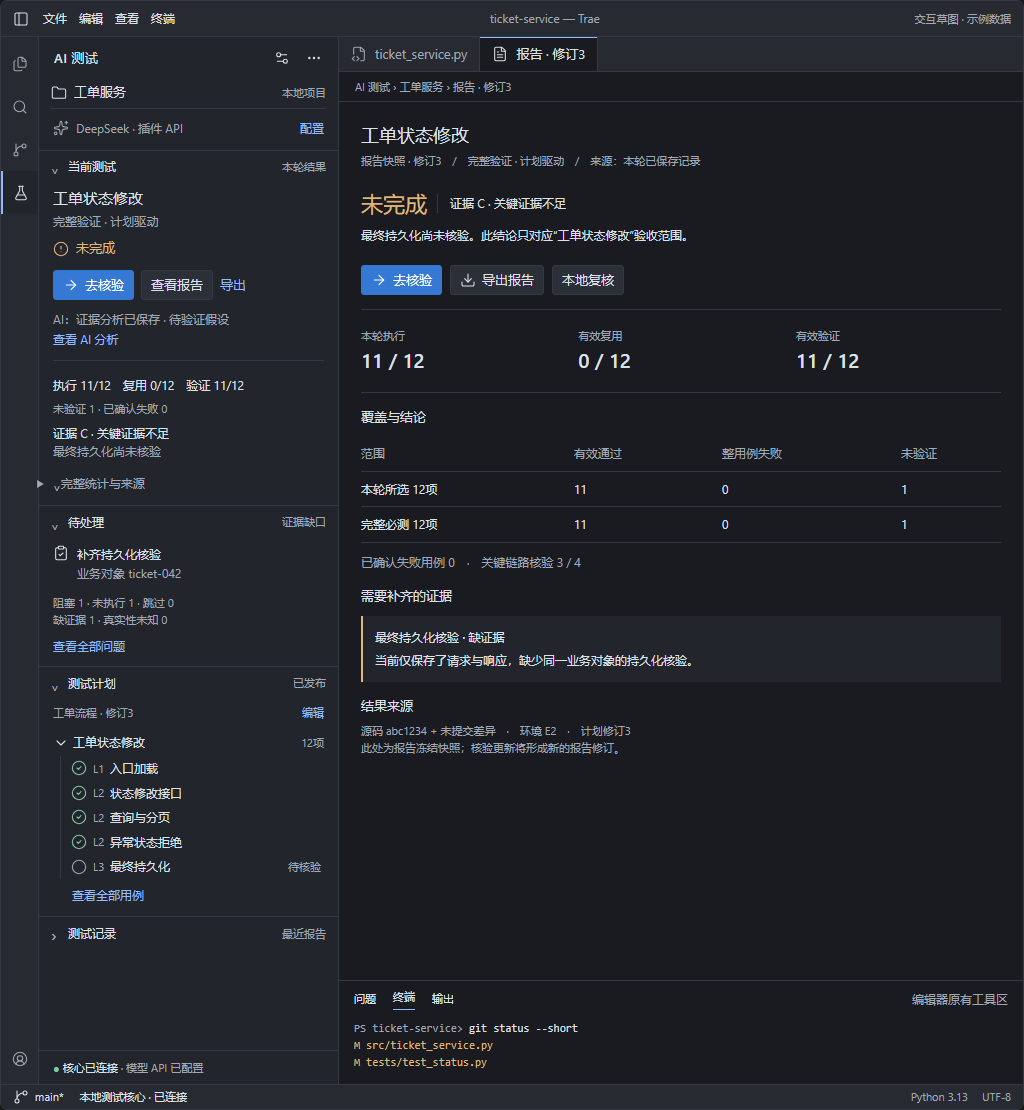
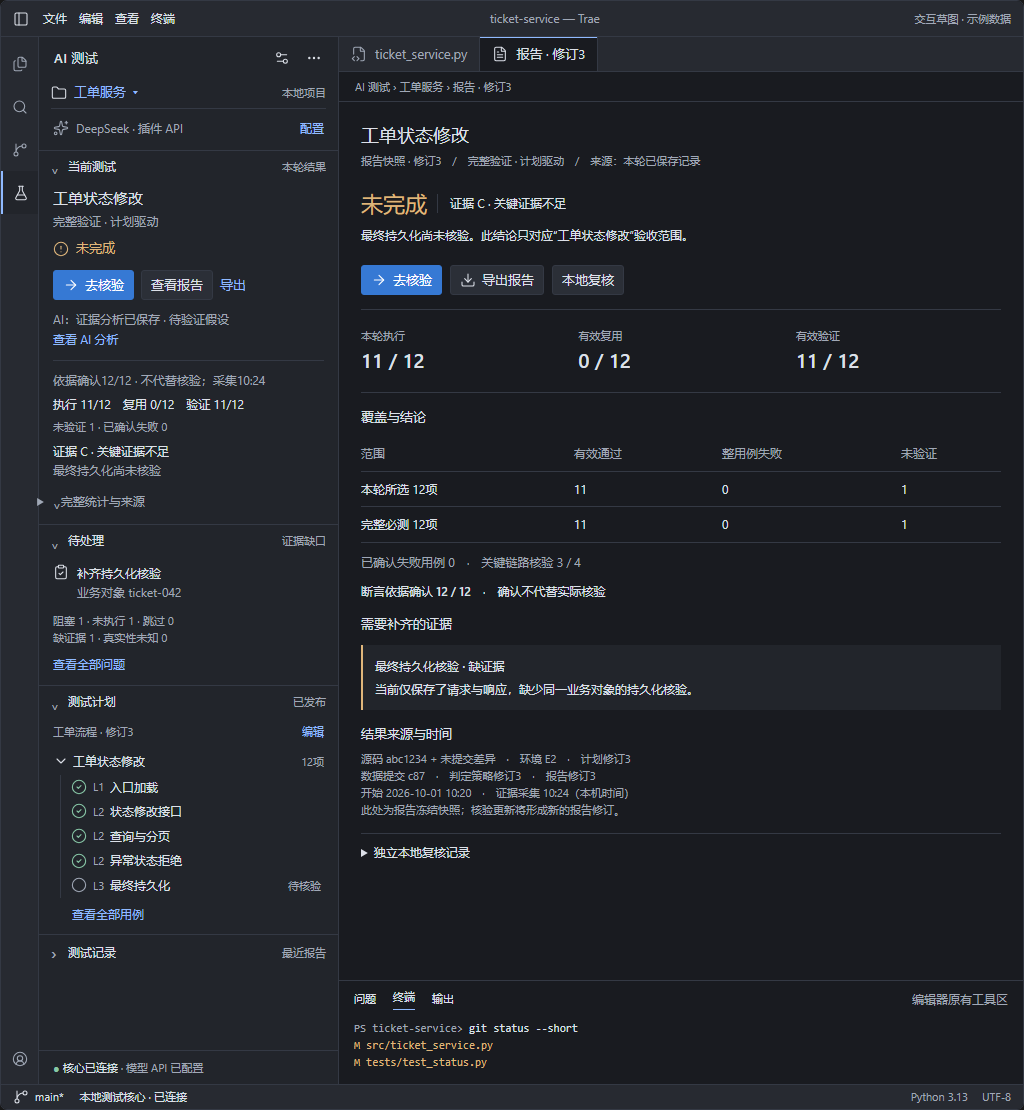
docs: align editor panel design with existing contracts

diff --git a/docs/项目文档/一期/设计文档/02-编辑器内面板交互设计草案.md b/docs/项目文档/一期/设计文档/02-编辑器内面板交互设计草案.md
@@ -1,6 +1,6 @@
 # 编辑器内 AI 辅助测试面板交互设计草案
 
-版本：0.2；日期：2026年10月1日。
+版本：0.3；日期：2026年10月1日。
 
 状态：界面讨论稿，尚未实现或在真实 Trae 中验证。
 
@@ -10,7 +10,7 @@
 
 **推荐方案：一个常驻 AI 测试面板，使用设置中配置的模型 API 准备测试与分析证据。面板回答“让 AI 测什么、现在怎样、下一步做什么”；详情承担计划确认、执行、证据核对和报告阅读。详情默认可在同一面板中切换，宿主支持时也可打开编辑器详情标签页。**
 
-本轮补充突出既有模型能力及宿主容器适配，不增加功能范围。配置与任务语义以[功能文档的 AI 模型接口](../功能文档/01-功能文档.md#ai-模型接口)和[项目与计划架构](../架构文档/01-项目与计划.md#9-复用回归与模型任务矩阵)为准。编辑器内建 AI 与 MCP 是可选接入方式；插件直接调用所配模型 API 的流程不依赖宿主聊天或标签页。
+本轮补充突出既有模型能力及宿主容器适配，不增加功能范围。配置与任务语义以[功能文档的 AI 模型接口](../功能文档/01-功能文档.md#ai-模型接口)和[项目与计划架构](../架构文档/01-项目与计划.md#9-复用回归与模型任务矩阵)为准。用户可选择是否使用编辑器内建 AI 或 MCP；一期交付仍包含面板、CLI 与 stdio MCP，后两者复用同一核心。插件直接调用所配模型 API 的流程不依赖宿主聊天或标签页。
 
 ## 1 使用场景与设计目标
 
@@ -79,7 +79,7 @@
 
 ### 2.3 界面参考图
 
-以下四张图来自本稿对应的交互草图，均为示例数据，不是真实宿主安装或测试执行截图。图片随文档保存在同目录的“界面图”文件夹中。
+以下十张图来自本稿对应的交互草图，均为示例数据，不是真实宿主安装或测试执行截图。图片随文档保存在同目录的“界面图”文件夹中。图中示例只用于核对布局；产品统计和状态必须由同一核心 DTO 或合同夹具提供。
 
 **图1：无标签页 · 模型 API 设置。** 源码保留在原编辑区，设置在停靠面板内打开；提供供应方、API 地址、模型、密钥引用、超时和连接检查，并可返回本次测试。对应第2、8节。
 
@@ -96,6 +96,30 @@
 **图4：结果与报告。** 分别展示业务结论、证据等级、执行/复用/验证统计及未完成原因；报告保持具体修订的快照身份。对应第4.3、7节。
 
 ![结果与报告界面，显示未完成结论、C 级证据、覆盖统计及持久化核验缺口](界面图/editor-test-panel-result.png)
+
+**图5：环境与来源准备。** 核对依赖环境、业务数据隔离与复位、目标部署身份；明确不隔离与未保存内容的选择。对应第4.1.1节。
+
+![准备详情中的环境、数据、部署及未保存内容核对](界面图/editor-test-panel-environment.png)
+
+**图6：运行驱动与修订。** 在步骤边界收窄到逐步驱动；查看基础计划、运行中修订及过期依据，反向切换需新建运行。对应第4.2.1节。
+
+![运行控制详情中的驱动收窄、修订记录与依据过期处理](界面图/editor-test-panel-driver.png)
+
+**图7：问题草稿与人工确认。** 从证据创建统一问题记录，核对事实、假设、严重程度和本地责任人。对应第7.3节。
+
+![问题草稿详情中的事实、证据、级别及责任人确认](界面图/editor-test-panel-issue.png)
+
+**图8：变更影响与回归建议。** 依据已登记映射列出受影响用例，保留缺映射警告及人工增减理由。对应第5.2节。
+
+![变更回归详情中的来源、受影响用例、映射缺口与范围确认](界面图/editor-test-panel-regression.png)
+
+**图9：报告查询与项目显示。** 项目、业务结果及完整编号精确查询；修订独立展开，隐藏项目只改变展示偏好。对应第3.4、7.1节。
+
+![报告列表的项目和业务结果筛选、完整编号查询及隐藏项目恢复](界面图/editor-test-panel-records.png)
+
+**图10：AI 生成来源。** 分别展示复用、部分材料和来源过期；迟到响应仍归原输入。对应第5.3节。
+
+![AI 生成记录中的复用来源、部分材料缺口和过期响应](界面图/editor-test-panel-ai-records.png)
 
 ## 3 侧栏结构：一个入口，四个分组
 
@@ -126,6 +150,7 @@ AI 测试                                设置  更多
   ──────────────────────────────────
   执行 11/12 · 复用 0/12 · 验证 11/12
   未验证 1 · 已确认失败 0
+  依据确认 12/12；确认不代替核验
   证据 C · 关键证据不足
   ▸ 完整统计与来源
 
@@ -178,6 +203,12 @@ AI 测试                                设置  更多
 
 运行时仅对核心允许的尚未执行步骤开放修订。正在执行的步骤只读，拒绝理由就地显示。树中查看旧结果必须标为历史，不能把旧通过作为当前状态。
 
+### 3.4 项目选择、隐藏与恢复
+
+项目选择器可进入“管理项目显示”，列出可见项目与“已隐藏项目”。隐藏和恢复分别调用核心既有 ProjectViewPreference 用例；隐藏不删除项目、目录绑定或历史引用，不停止其运行。隐藏当前项目时明确显示其活动运行提示，保留原运行的查询路径，不静默切到另一个项目或取消执行；用户再明确选择其他项目。恢复只恢复列表可见性，不启动测试。取消目录选择或重新绑定不提交修改，冻结运行仍引用原绑定。
+
+多目录切换后，准备、报告、问题和模型记录均按准确项目重新查询；不沿用另一项目的筛选游标或授权。项目选择只改导航，不能把当前源码标签页当作已确认的绑定变更。对应 P1-AC25/30/34 及[报告查询与目录绑定](../功能文档/01-功能文档.md#16-报告查询与目录绑定)。
+
 ## 4 当前测试的三个阶段
 
 三个阶段占用同一位置，由核心已提交状态切换，保持用户对信息位置的记忆。
@@ -205,6 +236,21 @@ AI 测试                                设置  更多
 plain 目录以文件清单摘要替代源码行中的 Git 内容，整块省略仓库、分支、提交与远端字段。最近快照不等于当前编辑器/磁盘内容。打开面板不扫描源码；分析选定内容和运行准备均由明确动作发起。
 
 计划未发布时主动作改为“完善并发布计划”；必需输入缺失时说明具体字段并提供详情入口。未配置模型不阻止人工计划，无关的数据库、平台账号和远端连接不要求填入。
+
+### 4.1.1 准备详情中的环境与执行来源
+
+“查看准备详情”进入同面板详情，按当前动作显示以下事实与配置入口；当前测试信息区仍只读。
+
+| 内容 | 显示与操作 |
+| --- | --- |
+| 依赖环境 | 默认 venv；列实际解释器/版本、依赖集合来源及已支持方式。显式选择不隔离须确认并冻结到本次运行，显示“不隔离”；不能把该选择当缺配置或自动降等级 |
+| 业务数据 | 独立列数据来源、隔离方式、复位方式及本次业务对象；venv 不证明业务数据隔离。污染或缺复位事实按核心返回原因阻塞/标缺口 |
+| 被测目标 | 列实际入口/参数、安全目标、服务身份和部署版本核对状态；HTTP/L3 目标与本地源码对应性待核实时如实显示，不以源码副本建立成功证明一致 |
+| 凭据用途 | 模型、被测 HTTP、独立核验及可选 GitHub 分别选择引用；只要求实际动作需要的用途，无可用凭据后端时明确不可用 |
+| 未保存内容 | 发现宿主有未保存内容时，提供“由用户保存后重新准备”或“明确使用磁盘版本”的受控选择，决定入核心记录；不能自动保存或宣称缓冲区已测试。宿主无法提供该事实时说明使用磁盘来源及核实限制 |
+| 来源核对 | 展示实际入口、解释器、加载来源与固定源码的核对状态；启动前不符给重新准备入口，启动后来源不明保留执行事实并列缺口，不提供已核实绿灯 |
+
+保存环境配置不启动执行。prepare 后、start 前源码或必要输入变化时，展示变化原因并要求重新准备，旧意图不能执行新输入。正式提测/full 的交付、必测和关键链路门禁仍完整核对；quick/按需按所选能力校验。主责语义引用[项目、绑定和环境](../架构文档/01-项目与计划.md#1-项目绑定和环境)、[快照和物化](../架构文档/01-项目与计划.md#2-快照和物化)与[执行来源](../架构文档/01-项目与计划.md#12-执行来源与物化边界)，对应 P1-AC13/20/21/26/30/31。
 
 ### 4.2 执行阶段
 
@@ -235,6 +281,14 @@ plain 目录以文件清单摘要替代源码行中的 Git 内容，整块省略
 
 进入工作台后侧栏仍显示整体运行状态。事件更新不自动切走用户正在查看的历史、证据或问题。
 
+### 4.2.1 驱动收窄与运行中修订
+
+运行详情动作区提供“改为逐步驱动”，只在有效驱动为计划驱动且核心允许时出现。用户填写原因并确认后由 narrow_driver 用例在步骤边界生效；请求登记但尚未到边界时显示等待，不能提前标已切换。详情同时列初始驱动、有效驱动、变更原因和生效边界。有效驱动已是逐步时，反向放宽被拒绝，给出“重新准备并新建运行”入口，不恢复初始授权。
+
+“修订未执行步骤”先列允许修改对象，再显示差异、原因和生效边界。保存调用 revise_pending_steps 并核对预期修订；正在执行或已完成步骤不可回改。full 不提供删除适用必测、弱化断言或改变适用性规避门禁的入口；拒绝时显示具体对象与原因。详情分别列基础计划修订和运行中修订序列，每步保留实际执行修订，历史可读。
+
+需求、验收项或相关依据变更导致已有依据失效时，核心暂停受影响运行，界面列过期对象、原来源、原因及需重跑用例；旧断言仅作历史。用户查看变化、核实活动执行、重新准备或按允许路径继续；新输入及副作用尝试重新核对授权。不自动重跑，不把修改和收窄当成新的测试通过。对应 P1-AC19/20/31，行为以[运行控制](../功能文档/01-功能文档.md#4-状态修订与幂等)和[意图与运行修订](../架构文档/01-项目与计划.md#4-意图与运行修订)为准。
+
 ### 4.3 结果阶段
 
 展示顺序固定为范围及业务结果 → 下一步动作 → 执行/复用/有效验证 → 证据等级与缺口 → 来源详情。
@@ -246,6 +300,12 @@ plain 目录以文件清单摘要替代源码行中的 Git 内容，整块省略
 - 重跑生成新意图与新运行，旧结果保留。新尝试不得回退旧复用绿灯。
 
 “完整统计与来源”展开后分别显示本轮所选与完整必测两个摘要：执行、复用、有效验证、有效通过、整用例已验证失败、未验证及已确认失败用例；读取 CoverageDTO，不从步骤数推算。已确认失败与整用例失败可能重叠，不相加。零分母显示“不适用/无适用项”，缺字段显示“未知”。
+
+结果区独立显示“断言依据确认：已确认／参与本轮判定用例数”，与执行和有效验证计数并列，不能将确认数当已验证数。读取核心 effective_assertion_basis_state 及明确分母，不直接汇总冻结 Case 的保存时状态；缺字段为未知、空分母为无适用项。点“核对依据”在独立动作区打开准确用例/依据修订，补确认后仍由核心复核实际材料并产生新判定及报告修订，旧报告不变。
+
+三段信息中的本机开始、结束或采集时间只放运行后区；未取得的时间显示原因，不补造结束时间。工作台、证据与独立复核详情可显示各自记录时间。结果来源详情可核对核心数据提交 source_commit、判定策略 policy_version、基础/运行中计划修订与准确报告修订；核心数据提交与源码身份分别标明，plain 仍不出现 Git 字段。这些追溯信息不挤占主结论。时间不用于排序或判断最新。
+
+“当前测试”显示当前运行时，另保留相同结论键下完整验证的状态：新 full 开始即显示重新验证，取消/未知不回退旧通过；quick/按需显示补充结果，不覆盖完整验证结论。无对应完整验证时如实显示尚无完整验证。业务来源与时间字段引用[报告和当前结论](../架构文档/03-报告与缺陷.md#2-报告和当前结论)及[有效失败与确认呈现](../架构文档/06-面板与工作台.md#7-有效失败与确认字段呈现)，对应 P1-AC18/21/27/29。
 
 必须用以下反例核对布局与文案，具体判定仍由[一期功能第3、14、15节](../功能文档/01-功能文档.md)负责：
 
@@ -277,6 +337,32 @@ plain 目录以文件清单摘要替代源码行中的 Git 内容，整块省略
 准备运行时先展示核心冻结的动作摘要，再逐项授权。界面列出实际目标、已解析输入、影响、凭据用途和相关修订；未知变量标待解析。每项确认由受控用户交互提交，不设“一次永久信任全部”。尚无 Run 时确认绑定准备意图及计划步骤，不伪造运行编号。
 
 副作用确认使用足够宽的编辑器内确认视图或宿主受控交互，不把关键目标截断在窄侧栏。返回只保留准备内容，不授权或执行。
+
+### 5.1 项目上下文与交付详情
+
+准备材料中的“项目上下文”“任务与验收”“交付说明”分别打开结构化详情，保留所据版本与来源。交付表列任务/验收项、完成/未完成、变更模块、接口变化、可识别版本、运行方法、数据/依赖/Mock、已知问题和自测证据；提供“保存草稿”和用户“确认提测”，不以保存或 AI 生成替代确认。缺必填字段就地定位，正式提测不能进入可验收状态。开发自述、实际已验证和未验证范围分别显示；quick/按需不强制填满正式交付表。对应 P1-AC01/17/30，沿用[标准交付说明](../功能文档/01-功能文档.md#102-p1-fr02-标准交付说明)。
+
+### 5.2 变更影响与回归范围
+
+从准备详情、项目详情或计划动作区进入“查看变更与回归建议”，与问题修复复测共用回归用例，但分别说明触发来源。先列需求/源码/接口/规则变化的准确修订，再按已登记模块及用例关联展示受影响用例、变更原因和推导来源。单模块保留本模块回归，仅跨模块传播不适用；缺映射显示“推导结果，可能不完整”，不显示无影响。
+
+用户可新增或排除建议项，必须填写相应理由；full 适用必测保持锁定，不能借排除隐去失败。首次或映射不足的快速检查显示核心确定的已发布保守集合，无法确定时等待用户确认范围；quick 不增加任意勾选入口。确认范围保存修订后再准备新意图，查看或确认建议不自动执行，也不改变旧报告。对应 P1-AC03/12/20/23，匹配与传播唯一遵守[变更回归功能](../功能文档/01-功能文档.md#103-p1-fr03-变更影响与回归建议)及[模型与回归矩阵](../架构文档/01-项目与计划.md#9-复用回归与模型任务矩阵)。
+
+### 5.3 AI 任务、生成记录与来源状态
+
+准备详情中的 AI 任务入口包括项目摘要、检查内容、验收项建议、交付说明草稿、用例建议；工作台/报告可分析指定证据。所有任务经同一应用用例；用户选择目标材料和所需任务，生成结果进入对应草稿或假设区域。
+
+生成记录详情列任务、实际输入编号/修订、分析快照、策略/模板/模型配置修订、请求关联、可得的供应方请求号、返回模型、安全响应或错误、排除材料与原因。以下文字是既有生成状态/缺口的呈现，不新增业务枚举：
+
+| 核心事实 | 呈现与下一步 |
+| --- | --- |
+| 实际依赖未变、可复用 | 显示“复用已保存生成结果”、原来源及本次未新调用；用户先核对已有内容，不能只为刷新页面重复发请求 |
+| 输入限制、未授权或安全投影排除部分材料 | 醒目显示“基于部分材料”，列未纳入范围及分析缺口；不能声称已分析全部源码/日志 |
+| 来源修订变化 | 显示“来源已过期”及变化对象，核对或仅重新生成受影响草稿；人工修订保留，旧结果不覆盖新内容 |
+| 原来源的迟到响应 | 保留原请求/来源并标过期，不写入当前来源的分析或结论；用户可查看原记录 |
+| 超时、认证、限流、截断或结构错误 | 显示准确错误及已保存安全材料；换配置由用户明确选择，不暗换供应方；未知请求按核心恢复规则核实 |
+
+出站前再次核对当前开关和项目策略；缩小范围立即生效，已发出的请求不能宣称已撤回。源码片段关闭作用于全部字段投影。生成成功、复用或用户确认分析均不替代独立核验。对应 P1-AC10/15/17/30/32，主责为[复用与读取边界](../需求文档/01-需求文档.md#26-复用与读取边界)及[AI 调用边界](../架构文档/01-项目与计划.md#ai-调用边界)。
 
 ## 6 测试工作台与证据详情
 
@@ -321,13 +407,28 @@ plain 目录以文件清单摘要替代源码行中的 Git 内容，整块省略
 
 一期不新增按源码版本分组历史功能，不展示跨项目 KPI、通过率看板或可删除历史。报告列表使用现有 reports.latest；完整运行/报告编号精确查找使用 reports.by_id；修订展开使用 reports.revisions。有限查询、分页和索引语义引用[存储合同](../架构文档/04-存储与恢复.md)。
 
+完整报告列表顶部提供以下控件；窄面板纵向排列，功能不删减：
+
+| 控件/动作 | 查询与反馈 |
+| --- | --- |
+| 项目 | 从现有稳定项目选择一个，默认当前项目；切换后重新查询，不提供未定义的跨项目混合列表 |
+| 业务结果 | “全部业务结果”及通过/失败/未完成/不适用；提交 business_outcome，执行状态和材料可用性另列，不混成状态筛选 |
+| 编号类型与输入 | 明确选择运行编号或报告编号，提示“输入完整运行/报告编号”；精确匹配 reports.by_id，可附当前业务结果条件，不暗示模糊搜索 |
+| 清除编号/查询 | 清除编号后回到 reports.latest；查询失败保留条件，未匹配、索引待恢复、核心断连分开显示 |
+| 展开修订 | 调用 reports.revisions，列每个历史修订自身结果、判定策略和来源；不继承列表业务结果筛选 |
+| 下一页/刷新 | 使用核心返回游标，翻页保持同一 commit；用户刷新、项目/结果/编号条件变化时重置游标重新查询，不筛已加载页 |
+
+默认按核心固定排序显示最新摘要；列表不加载全部附件。项目隐藏/恢复入口见第3.4节。QuerySpec 字段和索引唯一遵循[固定查询目录](../架构文档/04-存储与恢复.md#页面控件与queryspec固定目录)，对应 P1-AC34。
+
 ### 7.2 报告阅读
 
 标题“报告 · 范围名称 · 修订3”，固定标识“报告快照”。先显示结论、范围、来源，再显示分层统计、缺口、真实性/Mock、问题与证据索引。
 
 用户正在看旧修订时出现“有新修订可查看”，不自动替换正文。实时运行值与报告快照不同，分别标明来源；证据缺失也保留报告原文，并明确当前可用性缺口。
 
-本地复核在独立区域填写复核人、决定、说明和所依据修订，不改报告正文或业务事实。导出先选择 Markdown 摘要或可携带证据包，再查看附件包含/排除/缺失及安全说明；只有安全投影、校验和可靠登记成功才提示完成。
+报告正文同样显示独立的断言依据确认数与必要追溯时间，读取该报告冻结的输入集合；补确认不使旧版字节或旧时间变化。本地复核在独立区域填写复核人、决定、说明和所依据修订，由核心记录本机时间并列出全部复核记录；保存前明确所依据报告，复核不改报告正文或业务事实。新报告的复核不自动沿用到另一修订，导出显示本次冻结的复核集合。
+
+导出先选择 Markdown 摘要或可携带证据包，再查看附件包含/排除/缺失及安全说明；只有安全投影、校验和可靠登记成功才提示完成。摘要明确附件不随附；证据包按既有合同含 report.md、manifest.json 和安全附件，预览相对路径、实际投影字节摘要及缺口，在新目录仍可阅读。越界路径、整体投影或校验失败时不给成功产物，原报告保持原修订。细则引用[本地复核与导出](../架构文档/03-报告与缺陷.md#3-本地复核与导出)、[可携带导出](../架构文档/03-报告与缺陷.md#5-范围环境和可携带导出)，对应 P1-AC21/28/29/35。
 
 ### 7.3 问题处理
 
@@ -337,6 +438,8 @@ plain 目录以文件清单摘要替代源码行中的 Git 内容，整块省略
 
 问题详情将事实与假设、预期与实际、证据与修复建议分开。动作包括：
 
+- **创建/编辑问题草稿**：从失败步骤、证据详情或人工记录进入，自动引用准确项目、用例/步骤/尝试、源码和环境；补标题、类型、影响范围、验收项/模块/层级、复现前置与顺序、预期/实际/频率、证据、事实/假设、建议级别和本地责任人。未知定位保留原因；缺证据是信息缺口，不直接确认产品缺陷。模型失败时仍能人工创建/提交；AI 草稿与问题共用 issue_id。
+- **提交待确认/人工核对事实**：提交草稿不隐含人工确认。受控用户核对准确事实修订、证据、级别和本地责任人后保存现有确认记录，再按允许状态进入处理；确认按钮不修改原断言。事实字段或关联证据变化使当前事实核对重新待核对，旧确认保留；仅责任人/进度变化按核心投影处理。人工事实核对、报告复核、处理进度、处置及阻塞分别呈现。
 - **复制修复说明**：输出脱敏来源、预期/实际、事实/假设、证据、位置或未知原因及复测入口，供用户自行交给编辑器 AI 或开发者。
 - **登记修复并复测**：绑定修复版本，新实际回归满足关闭标准后才能修复关闭。
 - **核实为非缺陷**：保存依据、理由与人工确认；不把原失败断言改为通过。
@@ -344,6 +447,8 @@ plain 目录以文件清单摘要替代源码行中的 Git 内容，整块省略
 - **暂缓**：保存理由，明确未解决阻塞仍在。
 
 一期不依赖宿主聊天发送 API。“复制修复说明”不会自动发送消息、修改代码或关闭问题。
+
+问题详情同时展示草稿→待确认→已确认→处理中→待复测→已关闭的允许流转；复测失败回处理中，沿原 issue_id 保存全部修复与回归。核实非缺陷、重复与暂缓使用独立处置，不伪装修复关闭。已确认有效 P0/P1 的关联阻塞由核心派生；AI 候选级别仍是待核实风险。受控确认和 expected_revision 冲突就地说明，AI/MCP 不可自报用户已确认。对应 P1-AC08/10/11/14/15/33，状态及核对字段以[缺陷处理](../功能文档/01-功能文档.md#121-缺陷处理与交接格式)和[问题复核语义](../架构文档/03-报告与缺陷.md#14-问题查询投影与复核语义)为准。
 
 ## 8 首次使用与设置
 
@@ -363,9 +468,9 @@ plain 目录以文件清单摘要替代源码行中的 Git 内容，整块省略
 | --- | --- |
 | 模型 API | 默认 DeepSeek；配置供应方/接收地址、模型、密钥引用和超时；保存配置、检查连接；显示当前配置修订及实际检查状态 |
 | 项目与目录 | 绑定目录、实际入口、模块与依赖、任务交付及重新绑定入口 |
-| 测试准备 | 默认档位/驱动、已支持依赖方式、目标/数据/复位及凭据引用 |
+| 测试准备 | 默认档位/驱动、默认venv及显式不隔离选择、实际入口/解释器、目标部署身份、业务数据来源/隔离/复位及分用途凭据引用；保存不等于本次运行已冻结 |
 | 模板与规则 | 查看、编辑、导入导出及发布修订；不把配置保存等同规则发布 |
-| 模型出站材料 | 模型启用、允许材料类别、所据策略修订及确认记录；源码片段默认关；首次出站及目标/范围扩大时确认 |
+| 模型出站材料 | 模型启用、允许材料类别、所据策略修订及确认记录、排除范围及部分材料缺口；源码片段默认关；首次出站及目标/范围扩大时确认 |
 | 本地数据 | 永久保存位置、空间组成、缺口、备份与迁移入口 |
 
 仅根据所选动作展示必需字段；未知保持未知，可靠自动填入值标明来源。模型首次出站、目标或材料范围改变按合同确认；关闭模型后不再发送新请求，人工、规则、证据与报告流程保持可用。
@@ -447,14 +552,14 @@ plain 目录以文件清单摘要替代源码行中的 Git 内容，整块省略
 
 | 功能 | 新界面入口 | 主要相关验收 |
 | --- | --- | --- |
-| P1-FR01—03 项目、交付、变更回归 | 项目选择、项目详情/设置、计划准备、问题回归 | P1-AC01/03/12/25/30 |
+| P1-FR01—03 项目、交付、变更回归 | 项目选择及显示管理、上下文/交付详情、变更与回归建议、计划准备 | P1-AC01/03/12/20/23/25/30/34 |
 | P1-FR04—06 模板、规则、计划用例 | 测试计划树、计划编辑、规则详情、依据确认 | P1-AC17/20/21/24/30/31/32 |
-| P1-FR07 档位与驱动 | 当前测试动作区、准备详情、按需选择 | P1-AC18/23/26/31 |
+| P1-FR07 档位与驱动 | 当前测试动作区、环境/来源准备、按需选择、运行驱动收窄与修订历史 | P1-AC13/18/19/20/21/23/26/31 |
 | P1-FR08 可运行检查 | 当前测试、计划树、工作台与安全输出 | P1-AC04/13/25 |
 | P1-FR09 工作台 | 待处理、步骤详情、暂停/核实/重试/补证 | P1-AC09/10/15/19/20/33/34 |
 | P1-FR10—13 模块、接口、真实性、业务场景 | 用例/步骤详情、证据、独立核验、人工/导入表单 | P1-AC02/04/05/06/07/08/09/24 |
-| P1-FR14 报告导出 | 当前测试结果动作、测试记录、报告/复核/导出详情 | P1-AC16/21/22/27/29/34/35 |
-| P1-FR15 缺陷回归 | 待处理问题入口、全项目问题清单、问题详情 | P1-AC08/10/11/14/15/33 |
+| P1-FR14 报告导出 | 当前测试结果及依据确认/时间、项目/结果/完整编号查询、报告修订/独立复核/导出详情 | P1-AC16/18/21/22/27/28/29/34/35 |
+| P1-FR15 缺陷回归 | 证据/人工记录创建草稿、全项目问题清单、问题事实/级别/责任人确认、修复处置与回归 | P1-AC08/10/11/14/15/33 |
 | P1-FR16 永久留存 | 报告修订、尝试历史、本地数据及备份/迁移 | P1-AC28/34/35 |
 | P1-FR17 面板 | 常驻侧栏、三段摘要、动作区、所有详情的返回路径 | P1-AC26/27/30/32/33/34 |
 
@@ -473,7 +578,27 @@ plain 目录以文件清单摘要替代源码行中的 Git 内容，整块省略
 7. 报告旧/新修订、独立复核、摘要/证据包、附件缺失。
 8. plain、多目录切换、断连重建、索引恢复、字体缩放与键盘操作。
 9. 无详情标签页时，在同面板完成计划、授权、人工补证、报告与设置；返回后恢复选择，不中断核心执行。
+10. 默认venv与显式不隔离、业务数据污染、部署来源未知、未保存内容和prepare/start间变化；分别显示事实、选择及阻塞。
+11. 运行驱动收窄、反向切换拒绝、运行修订原因与序列、需求变化后的暂停/过期/需重跑范围。
+12. 从人工/AI草稿创建问题，核对当前事实、级别与责任人；事实变化使核对过期，报告复核不替代该事实。
+13. 项目/业务结果/完整编号查询、展开不同结果的历史修订、同commit翻页、隐藏/恢复活动项目。
+14. 变更映射不足的保守quick、人工增减回归理由；AI复用、部分材料、来源过期和迟到响应。
 
 这些是既有 AC 的界面评审路径，不新增验收编号。完成原型只能证明布局与合同夹具表现；真实 Trae 安装、停靠能力、宿主生命周期、执行恢复和导出须按需求登记实际输入、版本、结果与证据。
 
 本轮交付状态：已完成交互设计草案；文档链接、表格和编号等静态核对结果见[修改记录](../../../修改日志/2026-10-01-编辑器内面板交互设计草案.md)；产品界面实现、合同运行验证、真实宿主和各期验收均不由本稿宣称通过。
+
+### 12.1 本次合同核对补充清单
+
+此表跟踪本轮七项设计遗漏和MCP措辞澄清；“已写入”仅表示设计文字与示例交互已补齐，未执行真实产品验收。
+
+| 核对项 | 主责合同 | 设计落点 | 状态 |
+| --- | --- | --- | --- |
+| 依据确认、运行后/复核时间及准确来源 | 需求FR14/17、AC21/27/29；报告架构第2、13节；面板架构第7节 | 第4.3、7.2节，图4 | 已写入 |
+| 驱动单向收窄、运行修订与依据过期 | 需求FR07、AC19/20；功能第4节；计划架构第4节 | 第4.2.1节，图6 | 已写入 |
+| 环境、数据、部署及未保存内容选择 | 需求FR07/11、AC13/21/26/30；计划架构第1、2、12节 | 第4.1.1、8.2节，图2/5 | 已写入 |
+| 问题草稿、事实确认与级别/责任人 | 功能FR15、第12.1节；报告架构第14节；AC08/10/11/14/15/33 | 第7.3节，图7 | 已写入 |
+| 变更回归及保守quick | 功能FR03；计划架构第9节；AC03/12/20/23 | 第5.2节，图8 | 已写入 |
+| 报告查询、分页及项目隐藏/恢复 | 功能第16节；存储架构第13节；AC34 | 第3.4、7.1节，图9 | 已写入 |
+| AI复用、部分材料、过期与迟到响应 | 需求第2.6节；计划架构第9节；AC10/15/17/30/32 | 第5.3节，图10 | 已写入 |
+| MCP使用选择与一期交付范围 | 总体架构第1节、Trae接入及一期交付边界 | 开篇、第8.2节 | 已澄清 |

diff --git a/docs/修改日志/2026-10-01-编辑器内面板交互设计草案.md b/docs/修改日志/2026-10-01-编辑器内面板交互设计草案.md
@@ -64,3 +64,32 @@
 旧版0.1备份仅用于修订恢复，已移出仓库，不随新分支提交。执行策略以 `blocked by policy` 拒绝删除命令，因此采用已核对源/目标及内容摘要的可恢复归档：`C:\Users\y'm'y\.codex\visualizations\2026\10\01\01a0f6f7-c60f-78e1-af72-f364524ac29d\cleanup-archive\2026-10-01-面板设计-v0.1`。归档后摘要保持一致。清理指移出项目目录，不表示删除了归档副本。
 
 聊天交互预览与本机检查截图/脚本不属于项目交付文件，均未纳入Git；本次不会清理其他人员的历史文档、记录或源码。
+
+## 0.3：需求、功能与架构核对补充
+
+用户要求再次仔细核对设计是否符合需求、功能、架构，并同意补齐核对出的遗漏。本次在0.2原稿上精确补充页面入口、详情字段及异常反馈，沿用现行一期合同；原五页签仍只作布局参考，模型 API 和无标签页的同面板方案保留。
+
+修订前将0.2草案、修改记录、四张图片及对应交互草图、检查脚本保存在项目外的可恢复目录：`C:\Users\y'm'y\.codex\visualizations\2026\10\01\01a0f6f7-c60f-78e1-af72-f364524ac29d\cleanup-archive\2026-10-01-面板设计-v0.2`。备份清单逐文件记录 SHA256；草案摘要为 A70AE41C0FE9EB3F22FDEB4BE646D1B304798EE8EAB19BC57499ED1C2C34178A，与修改前一致。备份与检查中间文件不纳入项目交付。
+
+| 核对遗漏 | 补充位置与呈现 | 主责依据 |
+| --- | --- | --- |
+| 依据确认计数、运行后及复核时间 | 第4.3、7.2节：独立分母、有效确认投影、准确报告修订与记录时间；图4更新 | FR14/17、AC21/27/29；报告架构第2/13节、面板架构第7节 |
+| 驱动收窄、运行中修订和过期依据 | 第4.2.1节：步骤边界、原因、初始/有效驱动、反向拒绝、新运行及修订序列；图6新增 | FR07、AC19/20；功能第4节、计划架构第4节 |
+| 依赖、数据、部署与未保存来源 | 第4.1.1、8.2节：默认venv、显式不隔离、独立数据复位、目标身份、用户保存/磁盘版本选择及prepare/start变化；图2更新、图5新增 | FR07/11、AC13/21/26/30；计划架构第1/2/12节 |
+| 问题草稿、事实、级别和责任人确认 | 第7.3节：创建/编辑、提交与人工确认分开，事实变化使核对失效，处置及真实回归另列；图7新增 | FR15、AC08/10/11/14/15/33；功能第12.1节、报告架构第14节 |
+| 一般变更影响与回归建议 | 第5.2节：准确变更来源、已登记映射、缺口、人工调整理由、full锁定与保守quick；图8新增 | FR03、AC03/12/20/23；计划架构第9节 |
+| 报告查询与项目隐藏/恢复 | 第3.4、7.1节：项目/结果/完整编号、修订、同commit游标、刷新及保留原运行；图9新增 | 功能第16节、存储架构第13节、AC34 |
+| AI复用、部分材料、过期及迟到响应 | 第5.3节：原输入/请求/策略、未纳入范围、只更新受影响草稿、迟到响应归原来源；图10新增 | 需求第2.6节、计划架构第9节、AC10/15/17/30/32 |
+
+另补第5.1节结构化交付入口、导出清单反馈，并澄清开篇及设置的MCP表述：用户可选择是否使用，但一期交付包含面板、CLI与stdio MCP。没有修改需求、功能、架构或接口合同，没有新增或重编号FR/AC、业务字段、枚举或计算公式；一期仍17 FR/35 AC，全项目25 FR/52 AC。
+
+四张原参考图同步更新，新增六张详情图，全部按相对路径嵌入第2.3节。图为示例数据；核心DTO是产品统计和状态的唯一来源。过期依据在树与详情均显示失效，不保留当前通过提示；人工确认、保存草稿及范围确认不触发真实执行。
+
+本次检查与交付状态：
+
+- 已完成：0.3设计草案、七项核对清单、十张内嵌PNG及逐项修改记录。
+- 已通过静态检查：草案与修改记录共44个本地链接（含锚点和图片）、18张表格列数、主章节1—12连续、一期17 FR/35 AC入口映射；十张PNG均为1024×1110，与对应草图截图逐字节摘要一致；Git差异空白检查通过。此处FR/AC检查仅核对入口编号覆盖，不代表验收通过。
+- 已通过原型检查：十种视图截图；新增六种详情在暗/亮主题及1024、736、328、288px内容宽度下的48组越界检查；无标签页返回、显式不隔离确认、磁盘来源选择、驱动单向收窄/反向拒绝、过期详情、问题提交与确认分开、回归调整理由、完整编号精确查询和项目隐藏/恢复。浏览器无脚本错误；检查对象是示例交互，不是产品或核心执行。
+- 未执行：本次产品代码修改、单元/合同运行测试、真实Trae/其他宿主安装与生命周期、实际模型调用、执行恢复及FR/AC真实环境验收。本文补齐设计合同的呈现，不据此宣称产品验收通过。
+
+本次交付分支为 `codex/editor-panel-contract-alignment-20261001`，以最新 `origin/develop` 的 `773ad3d` 为基线，仅提交本草案、修改记录和十张界面图。基线新增的A包代码、检查与其他人员记录均保留；本次没有修改这些文件。
